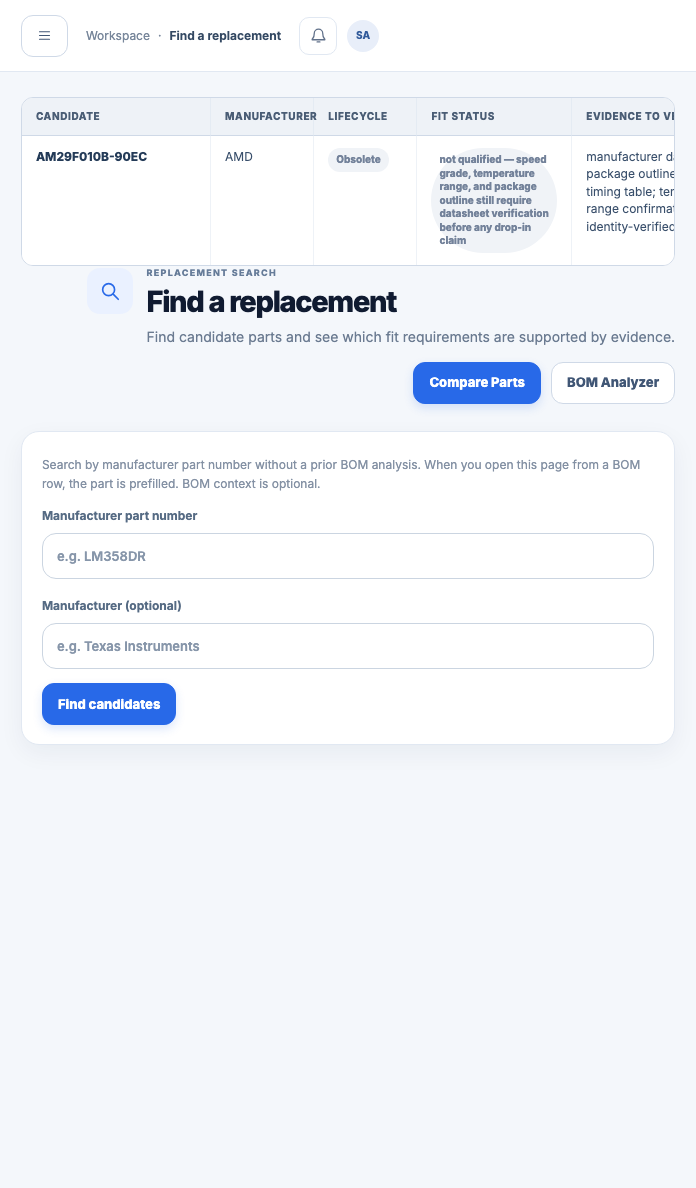
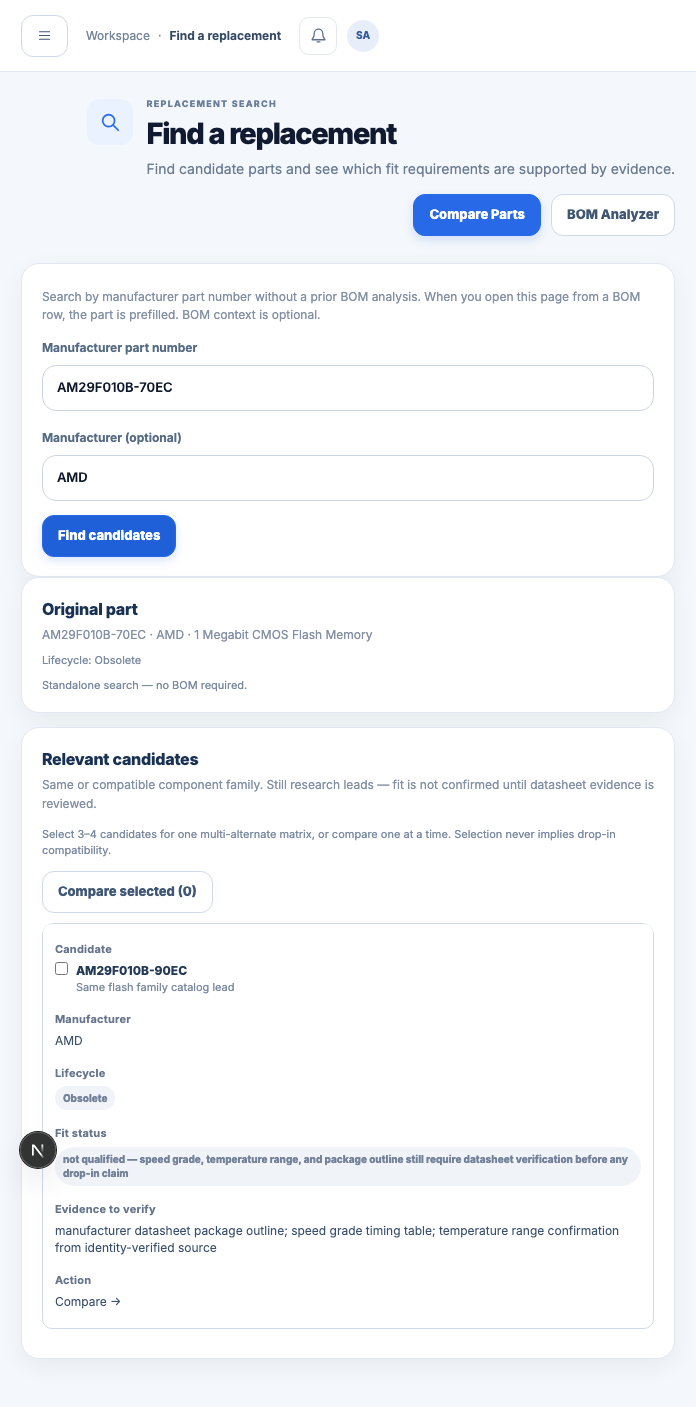
Use a single full-width value track for stacked replacement cards.
Stop side-by-side label/value grids from collapsing AMD/Obsolete at 390px, measure resolved grid tracks in the viewport checker, and refresh the responsive evidence screenshots.

diff --git a/apps/web/src/app/globals.css b/apps/web/src/app/globals.css
@@ -1703,38 +1703,57 @@ button {
     padding: 10px 12px;
   }
   .cv-table.cv-table-replacement td {
-    display: flex;
-    flex-direction: column;
+    /* Single full-width track: label above value. Never a side-by-side
+       label|value grid — that collapses the value track at ~390px and
+       stacks AMD / Obsolete one glyph per line. */
+    display: grid !important;
+    grid-template-columns: minmax(0, 1fr) !important;
+    grid-template-rows: auto auto;
     align-items: stretch;
+    justify-items: stretch;
     gap: 6px;
     padding: 8px 0;
     border: 0;
     border-bottom: 1px solid #edf2f7;
     white-space: normal;
-    overflow-wrap: anywhere;
-    word-break: break-word;
-    width: 100%;
-    min-width: 0;
-    max-width: none;
+    overflow-wrap: break-word;
+    word-break: normal;
+    width: 100% !important;
+    min-width: 0 !important;
+    max-width: none !important;
   }
   .cv-table.cv-table-replacement td > *,
   .cv-table.cv-table-replacement .cv-table-value {
     display: block;
+    grid-column: 1;
     min-width: 0;
     max-width: 100%;
-    width: 100%;
+    width: auto;
     box-sizing: border-box;
   }
-  .cv-table.cv-table-replacement .cv-fit-cell,
-  .cv-table.cv-table-replacement .cv-evidence-cell,
+  .cv-table.cv-table-replacement td.cv-fit-cell,
+  .cv-table.cv-table-replacement td.cv-evidence-cell {
+    display: grid !important;
+    grid-template-columns: minmax(0, 1fr) !important;
+  }
   .cv-table.cv-table-replacement .cv-badge {
-    display: block !important;
+    display: inline-flex !important;
+    align-items: flex-start;
     white-space: normal !important;
-    overflow-wrap: anywhere;
-    word-break: break-word;
+    overflow-wrap: break-word;
+    word-break: normal;
     max-width: 100%;
-    width: 100%;
+    width: fit-content;
     box-sizing: border-box;
+    line-height: 1.45;
+  }
+  .cv-table.cv-table-replacement .cv-fit-cell .cv-badge,
+  .cv-table.cv-table-replacement .cv-evidence-cell .cv-table-value {
+    display: block !important;
+    width: 100%;
+    max-width: 100%;
+    overflow-wrap: break-word;
+    word-break: normal;
     line-height: 1.45;
   }
   .cv-table.cv-table-replacement td:last-child {
@@ -1743,10 +1762,11 @@ button {
   .cv-table.cv-table-replacement td::before {
     content: attr(data-label);
     display: block !important;
-    width: 100%;
-    flex: 0 0 auto;
-    align-self: stretch;
-    margin: 0 0 2px;
+    grid-column: 1;
+    grid-row: 1;
+    width: auto;
+    max-width: 100%;
+    margin: 0;
     padding: 0;
     float: none;
     color: var(--muted);
@@ -1754,14 +1774,15 @@ button {
     font-weight: 700;
     letter-spacing: 0.02em;
     line-height: 1.3;
+    white-space: normal;
   }
   .cv-table.cv-table-replacement td.cv-table-action {
     position: static;
     box-shadow: none;
     text-align: left;
     background: transparent;
-    width: 100%;
-    min-width: 0;
+    width: 100% !important;
+    min-width: 0 !important;
   }
 }
 

diff --git a/tests/test_replacement_table_responsive.py b/tests/test_replacement_table_responsive.py
@@ -65,34 +65,81 @@ METRICS_JS = """() => {
     );
   }
 
-  function labelValueCollide(cell) {
-    const style = window.getComputedStyle(cell);
-    if (!(style.display === "flex" && style.flexDirection.startsWith("column"))) {
-      return false;
-    }
-    const value =
+  function valueEl(cell) {
+    return (
       cell.querySelector(".cv-table-value, .cv-badge, a, label") ||
-      cell.firstElementChild;
-    if (!value) return false;
-    const cellTop = cell.getBoundingClientRect().top;
-    const valueTop = value.getBoundingClientRect().top;
-    // Label (::before) must occupy its own row above the value.
-    return valueTop < cellTop + 12;
+      cell.firstElementChild
+    );
   }
 
-  function valueColumnWidth(cell) {
+  function lineBoxes(el) {
+    if (!el) return [];
+    const range = document.createRange();
+    range.selectNodeContents(el);
+    return Array.from(range.getClientRects()).filter(
+      (rect) => rect.width > 0 && rect.height > 0
+    );
+  }
+
+  function parseTrackPx(track) {
+    if (!track || track === "none") return null;
+    // Computed grid tracks resolve to px like "286px" or "minmax(0px, 1fr)" → usually px.
+    const m = String(track).trim().match(/^([0-9.]+)px$/);
+    return m ? Number(m[1]) : null;
+  }
+
+  function resolvedValueTrack(cell) {
     const style = window.getComputedStyle(cell);
     const box = cell.getBoundingClientRect();
-    if (style.display === "flex" && style.flexDirection.startsWith("column")) {
-      // Label-above-value cards: the value uses the full cell width.
-      return box.width;
+    const value = valueEl(cell);
+    const grid = String(style.gridTemplateColumns || "").trim();
+    if (grid && grid !== "none") {
+      const tracks = grid.split(/\\s+/).filter(Boolean);
+      if (tracks.length >= 2) {
+        // Side-by-side label|value: last track is the value column.
+        const px = parseTrackPx(tracks[tracks.length - 1]);
+        if (px != null) return px;
+      }
+      if (tracks.length === 1) {
+        const px = parseTrackPx(tracks[0]);
+        if (px != null) return px;
+      }
     }
-    if (style.display === "grid") {
-      return Math.max(0, box.width * 0.68);
-    }
-    const badge = cell.querySelector(".cv-badge");
-    if (badge) return badge.getBoundingClientRect().width;
+    if (value) return value.getBoundingClientRect().width;
     return box.width;
+  }
+
+  function unreadableShortValue(cell) {
+    const value = valueEl(cell);
+    if (!value) return false;
+    const text = String(value.textContent || "").replace(/\\s+/g, " ").trim();
+    if (!text || text.length > 24) return false;
+    const boxes = lineBoxes(value);
+    if (boxes.length <= 1) return false;
+    // AMD / Obsolete stacked one glyph wide.
+    const skinny = boxes.filter((rect) => rect.width <= 16).length;
+    if (skinny >= 2 && skinny >= Math.ceil(boxes.length * 0.6)) return true;
+    if (boxes.length >= Math.min(text.replace(/\\s/g, "").length, 3)) {
+      const avg = boxes.reduce((sum, rect) => sum + rect.width, 0) / boxes.length;
+      if (avg <= 18) return true;
+    }
+    return false;
+  }
+
+  function labelValueCollide(cell) {
+    const style = window.getComputedStyle(cell);
+    const stackedCell =
+      (style.display === "flex" && style.flexDirection.startsWith("column")) ||
+      (style.display === "grid" &&
+        String(style.gridTemplateColumns || "").split(/\\s+/).filter(Boolean).length <= 1);
+    if (!stackedCell) return false;
+    const value = valueEl(cell);
+    if (!value) return false;
+    const before = window.getComputedStyle(cell, "::before");
+    if (!before.content || before.content === "none") return false;
+    const cellTop = cell.getBoundingClientRect().top;
+    const valueTop = value.getBoundingClientRect().top;
+    return valueTop < cellTop + 12;
   }
 
   const tables = Array.from(
@@ -103,22 +150,33 @@ METRICS_JS = """() => {
       const cells = Array.from(row.children);
       const rects = cells.map((cell) => {
         const box = cell.getBoundingClientRect();
+        const style = window.getComputedStyle(cell);
+        const value = valueEl(cell);
+        const track = resolvedValueTrack(cell);
         return {
           width: box.width,
           height: box.height,
           left: box.left,
           right: box.right,
           label: cell.getAttribute("data-label") || "",
+          display: style.display,
+          gridTemplateColumns: style.gridTemplateColumns,
           clipped: contentClipped(cell),
           labelCollision: labelValueCollide(cell),
-          valueWidth: Math.round(valueColumnWidth(cell)),
+          unreadableShort: unreadableShortValue(cell),
+          valueWidth: Math.round(track),
+          valueTextWidth: value
+            ? Math.round(
+                Math.max(...lineBoxes(value).map((rect) => rect.width), 0)
+              )
+            : 0,
         };
       });
       const firstCell = cells[0];
+      const firstStyle = firstCell ? window.getComputedStyle(firstCell) : null;
       const stacked =
         window.getComputedStyle(row).display === "block" ||
-        (firstCell &&
-          ["block", "flex", "grid"].includes(window.getComputedStyle(firstCell).display));
+        (firstStyle && ["block", "flex", "grid"].includes(firstStyle.display));
       let overlap = false;
       if (!stacked) {
         for (let i = 1; i < rects.length; i += 1) {
@@ -131,22 +189,43 @@ METRICS_JS = """() => {
       );
       const clipped = rects.some((rect) => rect.clipped);
       const labelCollision = stacked && rects.some((rect) => rect.labelCollision);
-      const narrowStackedValue = stacked && rects.some((rect) => {
-        const label = String(rect.label || "").toLowerCase();
-        if (shortLabels.has(label)) return rect.valueWidth < 56;
-        if (longLabels.has(label)) return rect.valueWidth < 96;
-        return false;
-      });
+      const unreadableShort = rects.some((rect) => rect.unreadableShort);
+      // Stacked is not an automatic pass — measure the resolved value track,
+      // never a 68%-of-cell estimate. Desktop intrinsic text width (e.g. "AMD"
+      // at 28px inside a wide column) is not a failure.
+      const narrowValueTrack =
+        stacked &&
+        rects.some((rect) => {
+          const label = String(rect.label || "").toLowerCase();
+          const track = Number(rect.valueWidth) || 0;
+          if (shortLabels.has(label)) return track < 120;
+          if (longLabels.has(label)) return track < 160;
+          if (label === "candidate" || label === "action") return track < 120;
+          return false;
+        });
+      const sideBySideCollapsed =
+        stacked &&
+        rects.some((rect) => {
+          const tracks = String(rect.gridTemplateColumns || "")
+            .split(/\\s+/)
+            .filter((part) => part && part !== "none");
+          if (tracks.length < 2) return false;
+          const last = tracks[tracks.length - 1].match(/^([0-9.]+)px$/);
+          return last ? Number(last[1]) < 72 : false;
+        });
       return {
         overlap,
         tall,
         squeezed,
         clipped,
         labelCollision,
-        narrowStackedValue,
+        unreadableShort,
+        narrowValueTrack: Boolean(narrowValueTrack || sideBySideCollapsed),
         stacked,
         widths: rects.map((r) => Math.round(r.width)),
         valueWidths: rects.map((r) => r.valueWidth),
+        valueTextWidths: rects.map((r) => r.valueTextWidth),
+        gridTemplateColumns: rects.map((r) => r.gridTemplateColumns),
         labels: rects.map((r) => r.label),
       };
     });
@@ -231,6 +310,12 @@ class ReplacementTableResponsiveTests(unittest.TestCase):
                 self.assertFalse(injected)
                 body_has_candidate = "AM29F010B-90EC" in page.locator("body").inner_text()
                 self.assertTrue(body_has_candidate)
+                # Multi-select still works on the rendered row.
+                if width == 1440:
+                    page.locator(
+                        '.cv-table-replacement--candidates input[type="checkbox"]'
+                    ).first.check()
+                    self.assertIn("Compare selected (1)", page.locator("body").inner_text())
                 metrics = page.evaluate(METRICS_JS)
                 bad = [
                     row
@@ -241,7 +326,8 @@ class ReplacementTableResponsiveTests(unittest.TestCase):
                     or row.get("squeezed")
                     or row.get("clipped")
                     or row.get("labelCollision")
-                    or row.get("narrowStackedValue")
+                    or row.get("unreadableShort")
+                    or row.get("narrowValueTrack")
                 ]
                 results["viewports"].append(
                     {

diff --git a/.evidence_ui/next_ui_two_bom_smoke.py b/.evidence_ui/next_ui_two_bom_smoke.py
@@ -635,14 +635,19 @@ def main() -> int:
                   function valueColumnWidth(cell) {
                     const style = window.getComputedStyle(cell);
                     const box = cell.getBoundingClientRect();
+                    const grid = String(style.gridTemplateColumns || "").trim();
+                    if (grid && grid !== "none") {
+                      const tracks = grid.split(/\\s+/).filter(Boolean);
+                      // Prefer the resolved value track in px — never a 68% estimate.
+                      const track = tracks.length >= 2 ? tracks[tracks.length - 1] : tracks[0];
+                      const m = String(track || "").match(/^([0-9.]+)px$/);
+                      if (m) return Number(m[1]);
+                    }
                     if (style.display === "flex" && style.flexDirection.startsWith("column")) {
                       return box.width;
                     }
-                    if (style.display === "grid") {
-                      return Math.max(0, box.width * 0.68);
-                    }
-                    const badge = cell.querySelector(".cv-badge");
-                    if (badge) return badge.getBoundingClientRect().width;
+                    const value = cell.querySelector(".cv-table-value, .cv-badge, a, label");
+                    if (value) return value.getBoundingClientRect().width;
                     return box.width;
                   }
 
@@ -670,7 +675,9 @@ def main() -> int:
                       const stacked =
                         window.getComputedStyle(row).display === "block" ||
                         (firstCell &&
-                          ["block", "grid"].includes(window.getComputedStyle(firstCell).display));
+                          ["block", "flex", "grid"].includes(
+                            window.getComputedStyle(firstCell).display
+                          ));
                       let overlap = false;
                       if (!stacked) {
                         for (let i = 1; i < rects.length; i += 1) {
@@ -682,10 +689,11 @@ def main() -> int:
                         (rect, idx) => idx < rects.length - 1 && rect.width > 0 && rect.width < 48
                       );
                       const clipped = rects.some((rect) => rect.clipped);
+                      // Stacked is not an automatic pass.
                       const narrowStackedValue = stacked && rects.some((rect) => {
                         const label = String(rect.label || "").toLowerCase();
-                        if (shortLabels.has(label)) return rect.valueWidth < 56;
-                        if (longLabels.has(label)) return rect.valueWidth < 96;
+                        if (shortLabels.has(label)) return rect.valueWidth < 120;
+                        if (longLabels.has(label)) return rect.valueWidth < 160;
                         return false;
                       });
                       return {

diff --git a/tests/test_nov9_prod_smoke_fixes.py b/tests/test_nov9_prod_smoke_fixes.py
@@ -93,7 +93,7 @@ class UiLayoutContractTests(unittest.TestCase):
             ".cv-table.cv-table-replacement--candidates td:nth-child(n)",
             css,
         )
-        self.assertIn("flex-direction: column", css)
+        self.assertIn("grid-template-columns: minmax(0, 1fr)", css)
         self.assertIn("min-width: 0 !important", css)
         self.assertIn("cv-fit-cell", page)
         self.assertIn("cv-evidence-cell", page)
